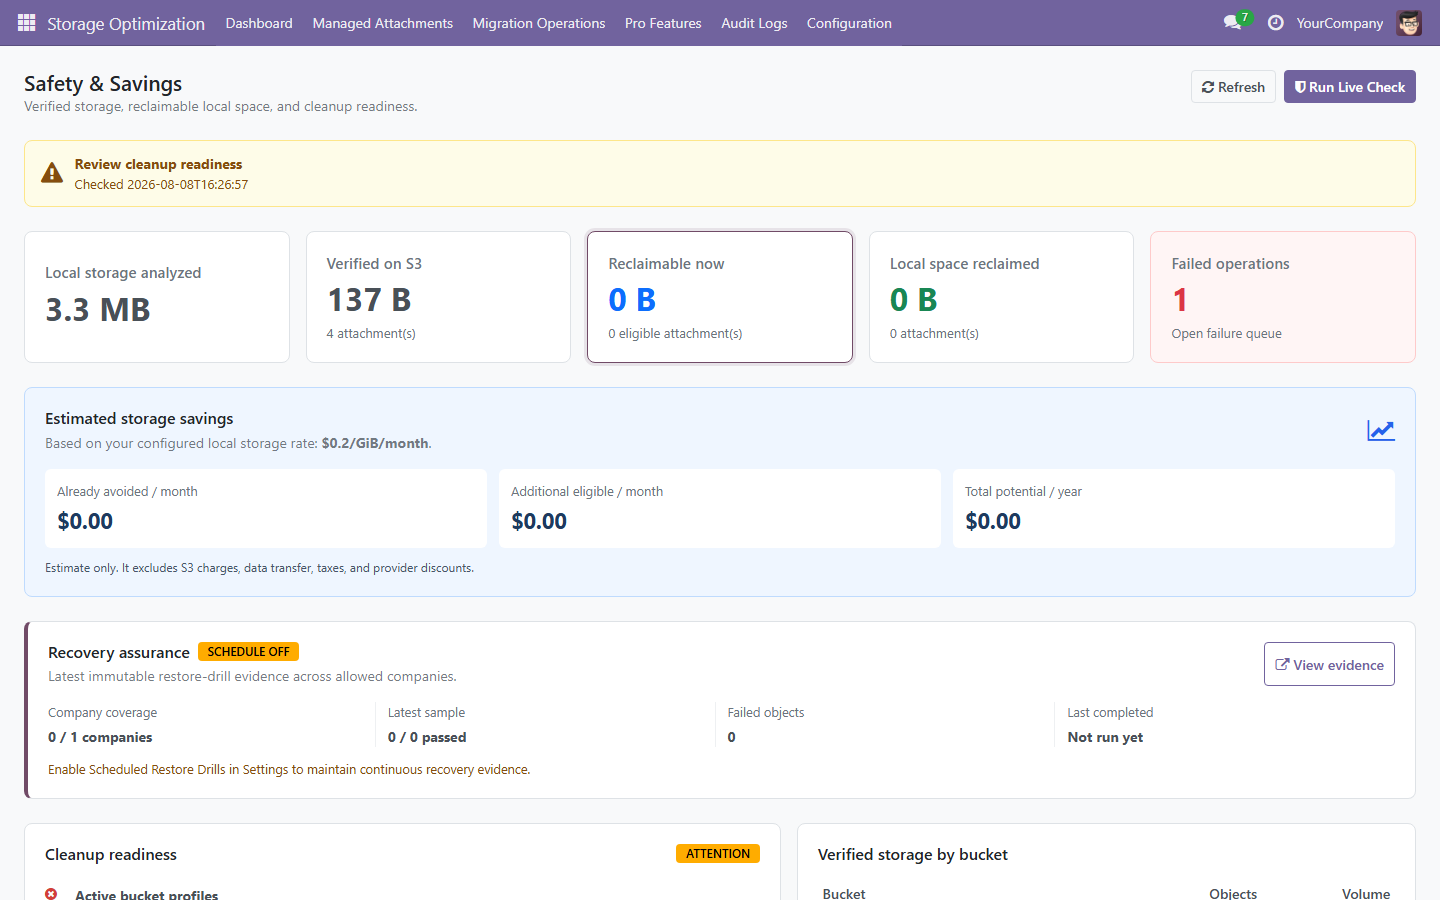
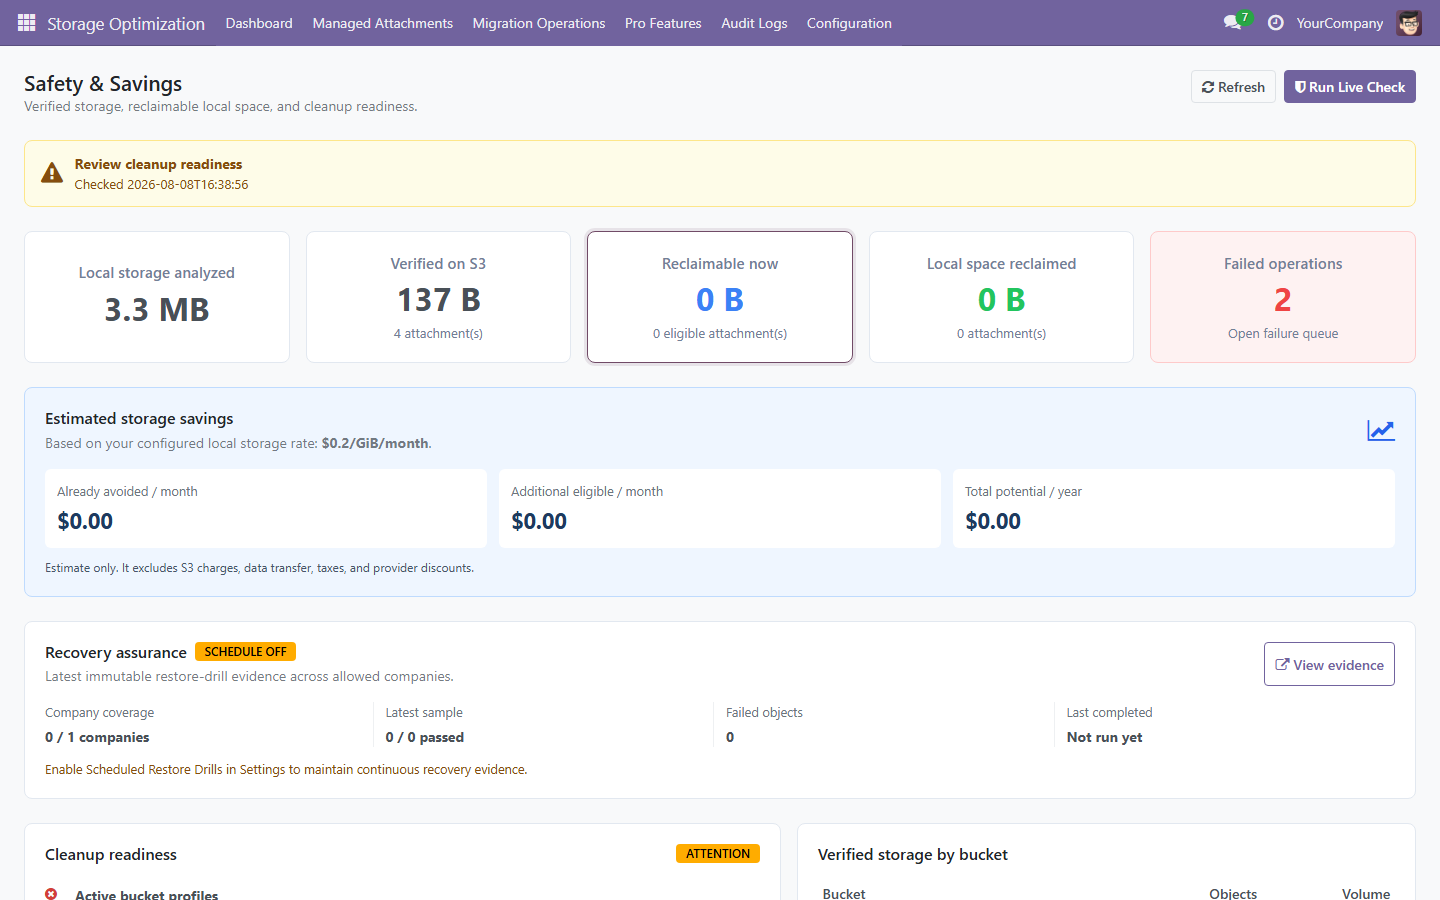
Align Pro dashboard visuals with Free

diff --git a/attachment_optimizer_pro/static/src/components/pro_dashboard/pro_dashboard.scss b/attachment_optimizer_pro/static/src/components/pro_dashboard/pro_dashboard.scss
@@ -1,10 +1,17 @@
 .o_pro_safety_dashboard {
     width: 100%;
+    max-width: none;
     margin: 0;
     padding: 24px;
     box-sizing: border-box;
     min-height: 100%;
     position: relative;
+}
+
+html .o_web_client .o_action_manager .o_pro_safety_dashboard {
+    width: 100%;
+    max-width: none;
+    margin: 0;
 }
 
 .o_pro_dashboard_header,
@@ -44,11 +51,12 @@
     min-width: 0;
     min-height: 124px;
     padding: 20px;
-    border: 1px solid #dee2e6;
+    border: 1px solid #e2e8f0;
     border-radius: 8px;
     background: var(--o-view-background-color, #fff);
     color: inherit;
-    text-align: left;
+    text-align: center;
+    align-items: center;
     display: flex;
     flex-direction: column;
     justify-content: center;
@@ -60,15 +68,15 @@
     font-variant-numeric: tabular-nums;
 }
 .o_pro_kpi_card small,
-.o_pro_kpi_label { color: var(--o-gray-600, #6c757d); }
+.o_pro_kpi_label { color: #718096; }
 .o_pro_kpi_label { font-size: .95rem; font-weight: 600; }
 .o_pro_kpi_action { cursor: pointer; transition: border-color .15s ease, box-shadow .15s ease; }
 .o_pro_kpi_action:hover,
 .o_pro_kpi_action:focus-visible { border-color: var(--o-brand-primary, #714b67); box-shadow: 0 0 0 3px rgba(113, 75, 103, .12); outline: 0; }
-.o_pro_kpi_primary strong { color: #0d6efd; }
-.o_pro_kpi_success strong { color: #198754; }
-.o_pro_kpi_danger { background: #fff5f5; border-color: #fecaca; }
-.o_pro_kpi_danger strong { color: #dc3545; }
+.o_pro_kpi_primary strong { color: #3b82f6; }
+.o_pro_kpi_success strong { color: #22c55e; }
+.o_pro_kpi_danger { background: #fef2f2; border-color: #fecaca; }
+.o_pro_kpi_danger strong { color: #ef4444; }
 
 .o_pro_savings_panel {
     margin-bottom: 24px;
@@ -104,8 +112,7 @@
 .o_pro_assurance_panel {
     margin-bottom: 24px;
     padding: 20px;
-    border: 1px solid #dee2e6;
-    border-left: 4px solid var(--o-brand-primary, #714b67);
+    border: 1px solid #e2e8f0;
     border-radius: 8px;
     background: var(--o-view-background-color, #fff);
 }
@@ -130,7 +137,7 @@
 .o_pro_assurance_hint { margin-top: 12px; color: #854d0e; font-size: .8rem; }
 .o_pro_assurance_error { color: #b42318; }
 .o_pro_dashboard_columns { display: grid; grid-template-columns: 1.1fr .9fr; gap: 16px; }
-.o_pro_panel { background: var(--o-view-background-color, #fff); border: 1px solid #dee2e6; border-radius: 8px; padding: 20px; }
+.o_pro_panel { background: var(--o-view-background-color, #fff); border: 1px solid #e2e8f0; border-radius: 8px; padding: 20px; }
 .o_pro_panel_header { align-items: center; margin-bottom: 12px; }
 .o_pro_check_list { display: flex; flex-direction: column; }
 .o_pro_check { display: grid; grid-template-columns: 20px 1fr; gap: 10px; padding: 10px 0; border-top: 1px solid #eef0f2; }

diff --git a/attachment_optimizer_pro/static/description/index.html b/attachment_optimizer_pro/static/description/index.html
@@ -96,6 +96,6 @@ For subsequent modules, update content inside sections only. Do not alter sectio
     </div>
 
     <!-- FOOTER -->
-    <div style="border:1px solid #e2e8f0; border-radius:16px; padding:32px 24px; margin:40px 0 16px; text-align:center;"><div style="font-size:14px; font-weight:700; color:#1e293b; text-transform:uppercase;">Attachment Optimizer Pro</div><p style="font-size:13px; color:#64748b; line-height:1.6;">Automated, verified S3-compatible attachment lifecycle management for Odoo.</p><div style="display:inline-block; border:2px solid #4f46e5; color:#4f46e5; font-weight:700; font-size:13px; padding:10px 28px; border-radius:8px;">US$49 · One-Time · No Subscription</div><p style="font-size:11px; color:#94a3b8; margin:20px 0 0;">Version 18.0.1.0.17 · Built and maintained by FoxPink</p></div>
+    <div style="border:1px solid #e2e8f0; border-radius:16px; padding:32px 24px; margin:40px 0 16px; text-align:center;"><div style="font-size:14px; font-weight:700; color:#1e293b; text-transform:uppercase;">Attachment Optimizer Pro</div><p style="font-size:13px; color:#64748b; line-height:1.6;">Automated, verified S3-compatible attachment lifecycle management for Odoo.</p><div style="display:inline-block; border:2px solid #4f46e5; color:#4f46e5; font-weight:700; font-size:13px; padding:10px 28px; border-radius:8px;">US$49 · One-Time · No Subscription</div><p style="font-size:11px; color:#94a3b8; margin:20px 0 0;">Version 18.0.1.0.18 · Built and maintained by FoxPink</p></div>
   </div>
 </section>

diff --git a/attachment_optimizer_pro/__manifest__.py b/attachment_optimizer_pro/__manifest__.py
@@ -1,6 +1,6 @@
 {
     "name": "Attachment Optimizer Pro",
-    "version": "18.0.1.0.17",
+    "version": "18.0.1.0.18",
     "category": "Storage",
     "summary": "Automation, cleanup, routing and lifecycle for S3-compatible attachment storage.",
     "description": """

diff --git a/README.md b/README.md
@@ -8,7 +8,7 @@ Only update product content, version, links, compatibility status, screenshots, 
 
 ![Attachment Optimizer Pro](attachment_optimizer_pro/static/description/preview.png)
 
-**Version:** 18.0.1.0.17 -- **License:** OPL-1 -- **Publisher:** FoxPink -- Maintained for **Odoo 18.0**
+**Version:** 18.0.1.0.18 -- **License:** OPL-1 -- **Publisher:** FoxPink -- Maintained for **Odoo 18.0**
 
 ---
 
